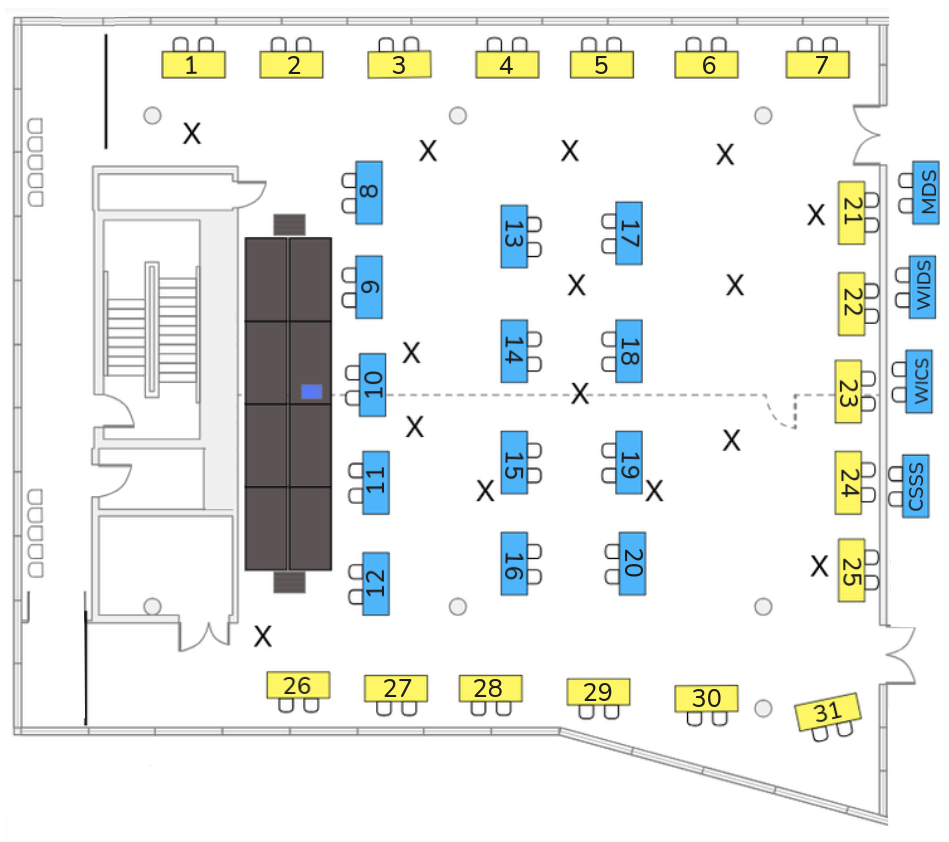
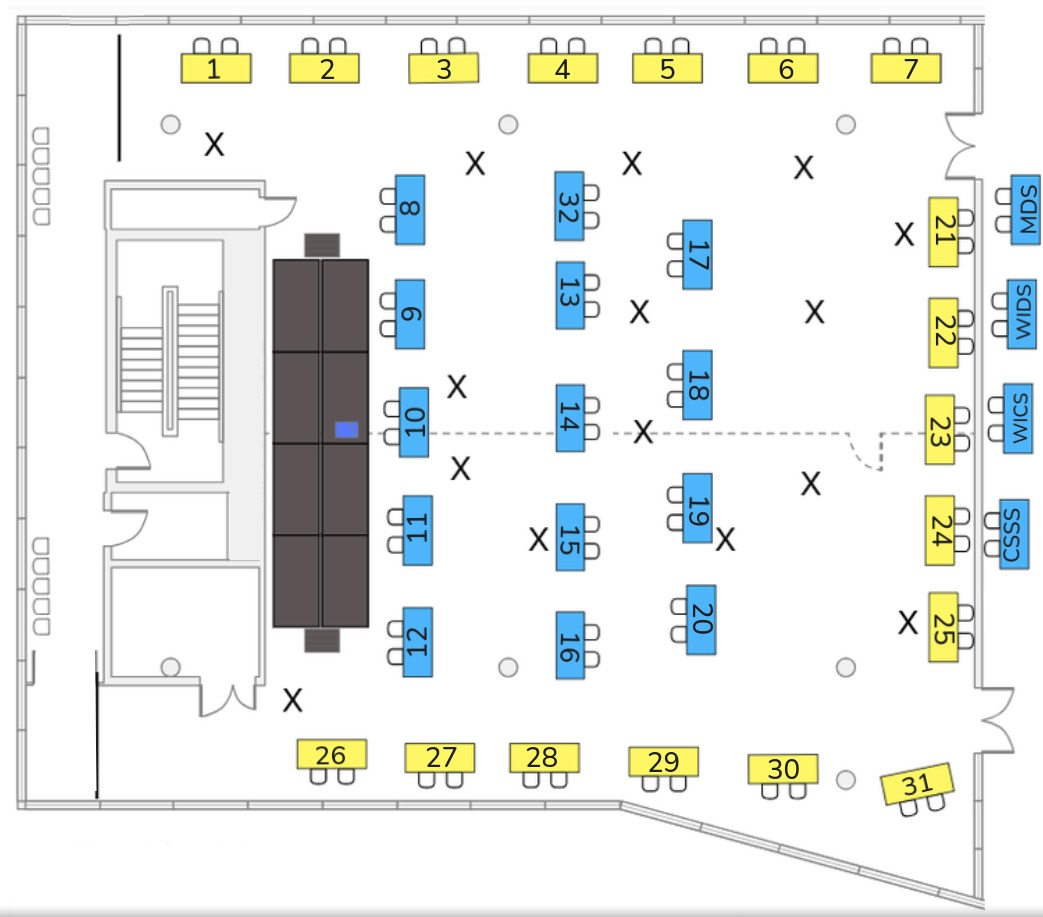
tcf: add introspect

diff --git a/content/tcf/introspect.md b/content/tcf/introspect.md
@@ -1,0 +1,17 @@
+---
+layout: tcf-company-2025
+title: Introspect Technology
+link: https://introspect.ca/
+short_bio: >
+  Founded in 2012, Introspect Technology designs and manufactures innovative test and measurement equipment for high-speed digital applications. Whether it is the next augmented reality headset or the level-4 autonomy engine in a mobility solution, our award-winning tools are used to develop, test, and manufacture next-generation products. We help the leading global technology companies make tomorrow's technology today's possibility.
+
+  At Introspect Technology, we're solving the most difficult problems encountered in electrical engineering with a passionate team that is inventing the world's most innovative test instruments. Join us to achieve your maximum potential, produce the best work of your career, and deliver meaningful value to customers - your impact on the world is limitless.
+imageLink: /files/tcf2025/introspect.png
+industry:
+  - Manufacturing
+majors: Computer Science, Computer Engineering, Electrical Engineering
+workAuth: Canadian Citizen/Permanent Resident
+degreeLevels: Current Students in an Undergraduate Program, Current Students in a Masters Program, Current Students in a Phd Program, Graduated with an Undergraduate Degree, Graduated with a Graduate Degree (Masters or Phd)
+positionTypes: Internships, Co-op Student (4 months), Co-op Student (8+ months), Recent Graduate, Part-time, Full-time
+boothNumber: 32
+---
